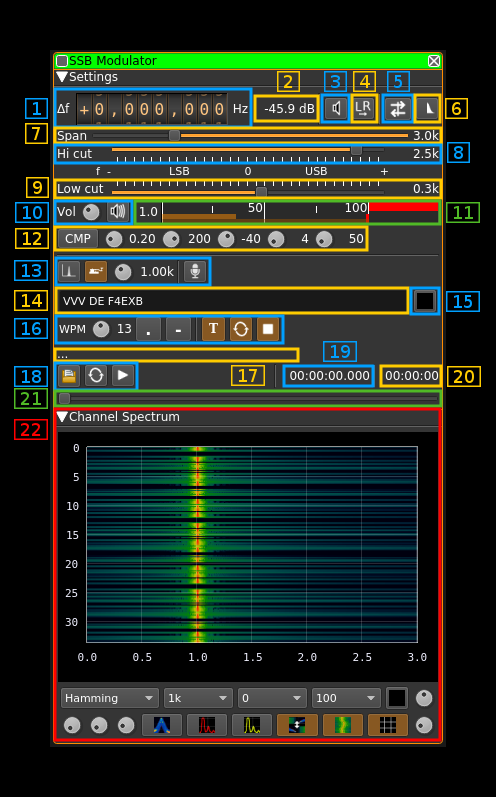
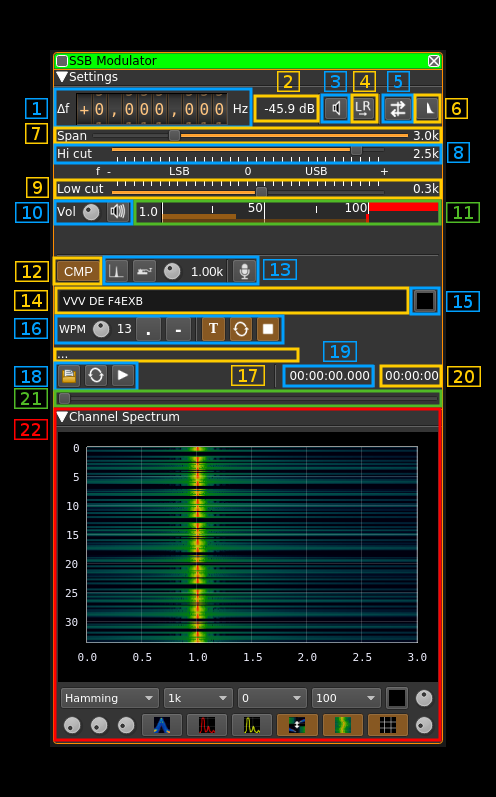
SSB mod: updated documentation. Bumped version and changelogs

Changed region(s): [[0.0302, 0.271, 0.756, 0.3614]]

diff --git a/plugins/channeltx/modssb/readme.md b/plugins/channeltx/modssb/readme.md
@@ -28,7 +28,7 @@ When in monaural mode the icon shows a single loudspeaker and when in binaural m
 
 <h3>4: Reverse left and right channels in binaural mode</h3>
 
-Effective only in binaural mode: reverses left and right audio channels so that the left is connected to Q and the right to the I complex signal channel. 
+Effective only in binaural mode: reverses left and right audio channels so that the left is connected to Q and the right to the I complex signal channel.
 
 <h3>5: Sideband flip</h3>
 
@@ -86,7 +86,7 @@ This is how the Span (7) and bandpass (8, 9) filter controls look like in the 3 
 Values are expressed in kHz and step is 100 Hz.
 
   - In SSB mode this is the upper (USB: positive frequencies) or lower (LSB: negative frequencies) cutoff of the in channel single side band bandpass filter. The value triggers LSB mode when negative and USB when positive
-  - In DSB mode this is half the bandwidth of the double side band in channel bandpass filter therefore the value is prefixed with the &#177; sign. 
+  - In DSB mode this is half the bandwidth of the double side band in channel bandpass filter therefore the value is prefixed with the &#177; sign.
 
 <h3>9: "Low cut": In channel bandpass filter cutoff frequency closest to zero</h3>
 
@@ -109,43 +109,7 @@ You should aim at keeping the peak value below 100% using the volume control
 
 <h3>12: Audio compression</h3>
 
-![SSB Modulator plugin compressor GUI](../../../doc/img/SSBModulator_plugin_cmp.png)
-
-The audio compressor uses the same AGC as on the receive side (SSB demodulator) with the following changes:
-
-  - The clamping is always active to prevent modulation overload
-  - The amplitude (magnitude) order control is tunable (2.2)
-  - The squelch delay after return below threshold is tunable (2.6) 
-
-The audio compressor works only in monaural mode controlled by (4)
-
-<h4>12.1: Audio compressor toggle</h4>
-
-Use this button to toggle audio compressor on and off. In "on" mode the button is lit as on the picture.
-
-<h4>12.2: AGC magnitude order</h4>
-
-This is the ratio to maximum signal magnitude aimed by the AGC. The higher the stronger is the compression but the signal will have more chances to get clamped and therefore will get more severely distorted.
-
-The default value is 0.2 which is rather mild. For normal voice you should not exceed 0.4 however the criteria is rather subjective. It is flexible enough to be tuned between 0 and 1 in 0.01 increments.
-
-<h4>12.3: AGC time constant</h4>
-
-Audio power is averaged during this period in ms. The lower the closer the compression reacts to audio signal variations and the "harder" it feels. This period can be set among these values: 1, 2, 5, 10, 20, 50, 100, 200, 500, 990 ms
-
-The default value is 200 ms which is relatively "soft". Most practically useful values are between 20 and 500 ms.
-
-<h4>12.4: Power threshold</h4>
-
-in order to avoid small signals due to background noise or power wiggle to enter the system and raise to normal voice level a power based squelch is in place. This control allows to select a threshold in dB above which a signal will open the squelch if it lasts longer than the squelch gate (2.5). Default is -40 dB.
-
-<h4>12.5: Squelch gate</h4>
-
-This prevents short bursts to open the squelch. This is the time in ms after a signal with a power constantly above the threshold will effectively open the squelch. Default is 4 ms.
-
-<h4>12.6: Squelch cut-off delay</h4>
-
-This controls the delay in ms after which a signal drop below threshold will close the squelch. Default value is 50 ms.
+Use this button to toggle audio compression on or off.
 
 <h3>13: Input source control</h3>
 
@@ -189,7 +153,7 @@ Sets the CW speed in Words Per Minute (WPM). This is based on the word "PARIS" s
   - Dash: 3 dot lengths
   - Character silence separator: 3 dot lengths
   - Word silence separator: 7 dot lengths
-  
+
 <h4>16.2: Dots keying</h4>
 
 Switch this button to send dots continuously
